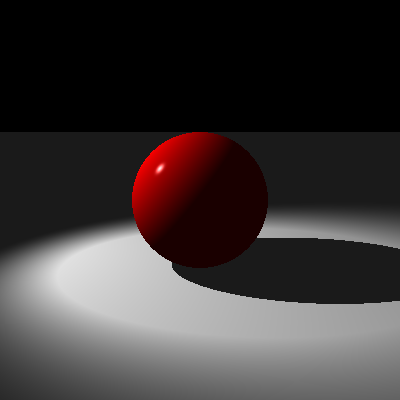
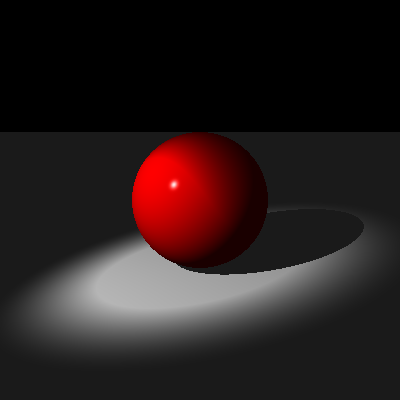
Updated README.

diff --git a/README.md b/README.md
@@ -378,10 +378,10 @@ let camera = Camera(
 
 let lights = [
     SpotLight(
-        position: (-5, 5, 0),
+        position: (-5, 5, -5),
         pointAt: (0, 0, 0),
-        beamAngle: pi/12,
-        falloffAngle: pi/6,
+        beamAngle: pi/24,
+        falloffAngle: pi/12,
         tightness: 1)
 ]
 
@@ -842,12 +842,14 @@ A `Uniform` material takes a single parameter, the primary color, and so a red m
 Uniform(Color(r: 1.0, g: 0.0, b: 0.0))
 ```
 
-There are a few patterns included with Scintilla, each of which takes two colors in their respective constructors:
+There are several patterns included with Scintilla, each of which takes two colors in their respective constructors:
 
 * `Striped(firstColor: Color, secondColor: Color)`
 * `Checkered2D(firstColor: Color, secondColor: Color)`
 * `Checkered3D(firstColor: Color, secondColor: Color)`
 * `Gradient(firstColor: Color, secondColor: Color)`
+* `Marble(firstColor: Color, secondColor: Color)`
+* `Wood(firstColor: Color, secondColor: Color)`
 
 The `ColorFunction` material has two constructors, both of which take three lambda functions, one for each of either the RGB or HSL components of the output color:
 
@@ -863,14 +865,14 @@ Like shapes, patterns can be transformed via method calls and their transformati
 * `rotateZ(Double)`: rotates the _pattern_ about the z-axis
 * `shear(xy: Double, xz: Double, yx: Double, yz: Double, zx: Double, zy: Double)`: deforms the _pattern_ by altering the proportion of x with respect to y, proportion of x with respect to z, etc. 
 
-Here is an example using one of each of the material types:
+Here is an example using most of the material types:
 
 ```swift
 let camera = Camera(
     width: 400,
     height: 400,
     viewAngle: pi/3,
-    from: (0, 2, -7),
+    from: (0, 4, -7),
     to: (0, 0, 0),
     up: (0, 1, 0))
 
@@ -891,17 +893,32 @@ let rainbow = ColorFunction(
     fh: { x, y, z in (arctan2(z, x)+pi)/pi/2.0 },
     fs: { x, y, z in 1.0 },
     fl: { x, y, z in 0.5 })
-    .rotateX(-pi/4)
+
+let pinkMarble = Marble(
+    firstColor: Color(r: 1.0, g: 0.75, b: 0.8),
+    secondColor: Color(r: 0.2, g: 0.2, b: 0.2))
+
+let brownWood = Wood(
+    firstColor: Color(h: 0.08, s: 1.0, l: 0.3),
+    secondColor: Color(h: 0.08, s: 1.0, l: 0.1))
+    .scale(x: 0.8, y: 0.8, z: 0.8)
 
 let shapes = [
     Sphere()
         .material(solidPurple)
-        .translate(x: -2.5, y: 0.0, z: 0.0),
+        .translate(x: -3.0, y: 0.0, z: 0.5),
     Sphere()
-        .material(checkered),
+        .material(checkered)
+        .translate(x: 0.0, y: 0.0, z: 2.5),
     Sphere()
         .material(rainbow)
-        .translate(x: 2.5, y: 0.0, z: 0.0),
+        .translate(x: 3.0, y: 0.0, z: 0.5),
+    Sphere()
+        .material(pinkMarble)
+        .translate(x: 1.5, y: 0.0, z: -2.0),
+    Sphere()
+        .material(brownWood)
+        .translate(x: -1.5, y: 0.0, z: -2.0),
     Plane()
         .translate(x: 0.0, y: -1.0, z: 0.0)
 ]
@@ -912,7 +929,7 @@ World(
     shapes: shapes)
 ```
 
-![](./images/three_materials.png)
+![](./images/materials.png)
 
 
 ## Constructive solid geometry
